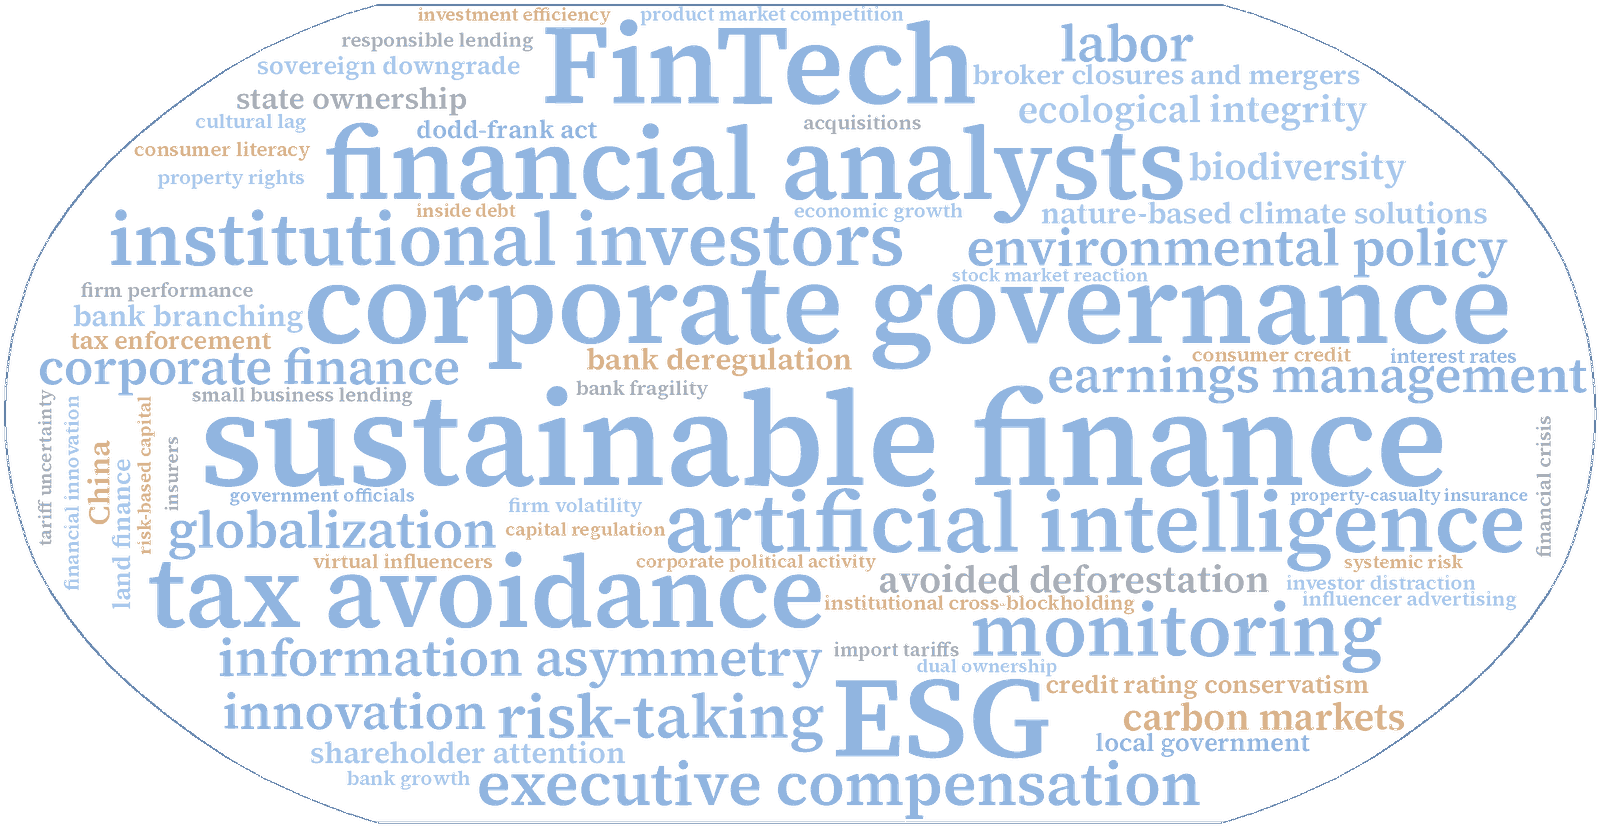
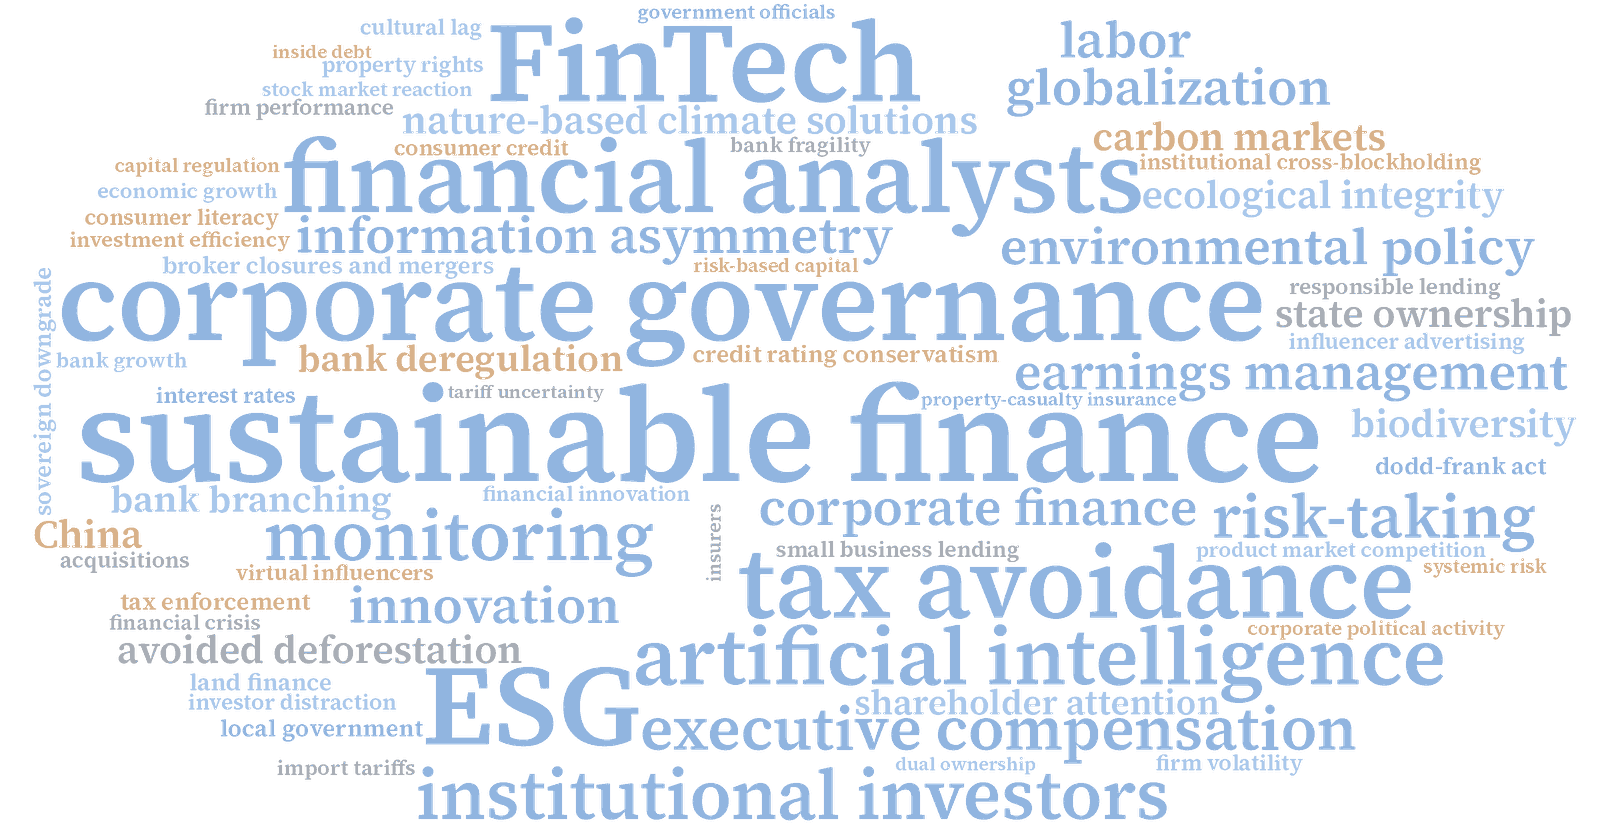
Word cloud: drop the outline frame, keep the map shape
Claude-Session: https://claude.ai/code/session_014YYKWAH9PBppTviVAHAJJX

diff --git a/tools/word_cloud.py b/tools/word_cloud.py
@@ -2,7 +2,7 @@
 Usage: python3 tools/word_cloud.py      (needs: pip install wordcloud numpy pillow)
 Words come from the paper keywords in papers_extra.KEYWORDS. Method-only terms are dropped,
 near-synonyms merged, and the three research programmes weighted up (Jonas's choices, 15 Nov 2026;
-China kept small at his request). Shape: Robinson world-map outline. Re-run after adding papers."""
+China kept small at his request). Shape: Robinson world-map outline, no frame line (Jonas, 15 Nov 2026). Re-run after adding papers."""
 import os, sys, random
 from collections import Counter
 import numpy as np
@@ -60,7 +60,7 @@ def render(freq, W, H, out_w, path, theme, max_font, min_font, max_words, contou
                    margin=6, color_func=col, random_state=3, collocations=False, max_words=max_words,
                    contour_width=0)
     im = wc.generate_from_frequencies(freq).to_image()
-    pts = outline(W, H, pad); ImageDraw.Draw(im).line(pts + pts[:1], fill=line, width=contour, joint="curve")
+    if contour: pts = outline(W, H, pad); ImageDraw.Draw(im).line(pts + pts[:1], fill=line, width=contour, joint="curve")
     im = im.resize((out_w, round(H * out_w / W)), Image.LANCZOS)
     im.quantize(32, method=Image.FASTOCTREE).save(path, optimize=True); print(path, im.size, os.path.getsize(path))
 
@@ -68,5 +68,5 @@ if __name__ == "__main__":
     f = frequencies()
     for t in THEMES:
         sfx = "" if t == "light" else "-dark"
-        render(f, 2400, 1240, 1600, os.path.join(IMG, f"research-cloud{sfx}.png"), t, 200, 14, 200, 3)
-        render(f, 1200, 620, 640, os.path.join(IMG, f"research-cloud-small{sfx}.png"), t, 150, 26, 22, 3)
+        render(f, 2400, 1240, 1600, os.path.join(IMG, f"research-cloud{sfx}.png"), t, 200, 14, 200, 0)
+        render(f, 1200, 620, 640, os.path.join(IMG, f"research-cloud-small{sfx}.png"), t, 150, 26, 22, 0)
